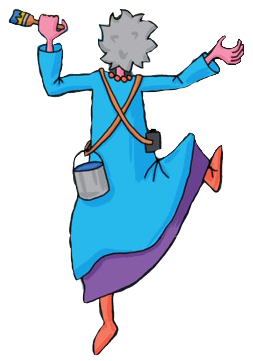
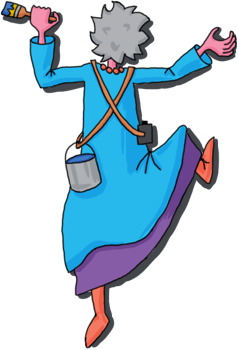
update images

Changed region(s): [[0.0, 0.0, 1.0, 1.0]]

diff --git a/index.html b/index.html
@@ -377,8 +377,8 @@
         }
          .imgAvatarLivre {
             position: absolute;
-            right: -10px;             /* centre horizontalement */
-            top: -10px;   /* tu peux ajuster selon ton design */
+            right: -5px;             /* centre horizontalement */
+            top: -5px;   /* tu peux ajuster selon ton design */
             height: 140px;  /* taille un peu plus équilibrée */
             width: auto;
             opacity: 0.9;
